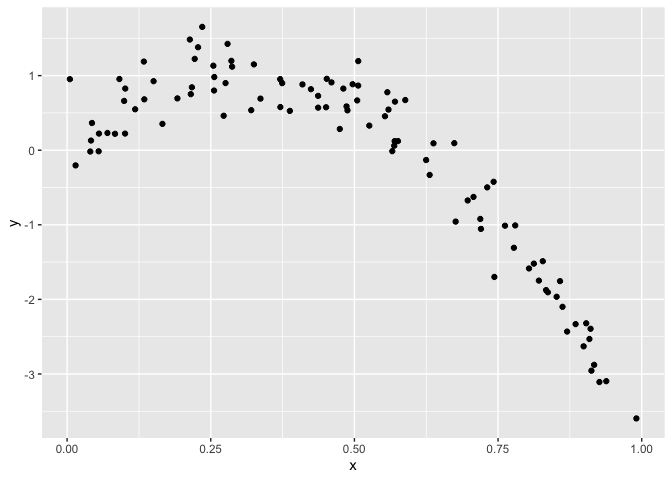
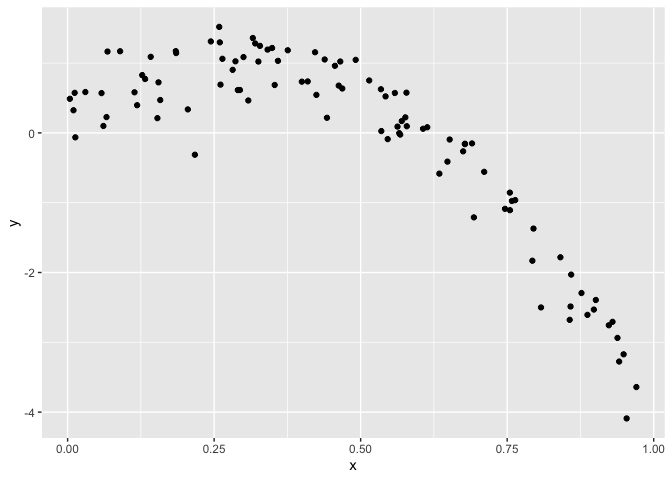
Made some plots

diff --git a/Cross-Validation.md b/Cross-Validation.md
@@ -24,7 +24,7 @@ out-of-sample fit - Exact ratio depends on data size, but preferably
 80/20
 
 ``` r
-# Create a bunch of random nonlinear numbers
+# Create a dataframe with 100 random nonlinear numbers (x-variable) and a y-variable that depends on x-variable.
 nonlin_df = 
   tibble(
     id = 1:100,
@@ -38,3 +38,55 @@ nonlin_df %>%
 ```
 
 ![](Cross-Validation_files/figure-gfm/unnamed-chunk-1-1.png)<!-- -->
+
+``` r
+train_df = sample_n(nonlin_df, 80)
+test_df = anti_join(nonlin_df, train_df, by = "id")
+```
+
+``` r
+train_df %>% 
+  ggplot(aes(x = x, y = y)) + 
+  geom_point() +
+  geom_point(data = test_df, color = "red")
+```
+
+![](Cross-Validation_files/figure-gfm/unnamed-chunk-2-1.png)<!-- -->
+
+Let’s try to fit three models.
+
+``` r
+linear_mod = lm(y ~ x, data = train_df)
+smooth_mod = gam(y ~ s(x), data = train_df)
+wiggly_mod = gam(y ~ s(x, k = 30), sp = 10e-6, data = train_df)
+```
+
+``` r
+train_df %>% 
+  add_predictions(linear_mod) %>% 
+  ggplot(aes(x = x, y = y)) +
+  geom_point() +
+  geom_line(aes(y = pred), color = "red")
+```
+
+![](Cross-Validation_files/figure-gfm/unnamed-chunk-4-1.png)<!-- -->
+
+``` r
+train_df %>% 
+  add_predictions(wiggly_mod) %>% 
+  ggplot(aes(x = x, y = y)) +
+  geom_point() +
+  geom_line(aes(y = pred), color = "red")
+```
+
+![](Cross-Validation_files/figure-gfm/unnamed-chunk-4-2.png)<!-- -->
+
+``` r
+train_df %>% 
+  add_predictions(smooth_mod) %>% 
+  ggplot(aes(x = x, y = y)) +
+  geom_point() +
+  geom_line(aes(y = pred), color = "red")
+```
+
+![](Cross-Validation_files/figure-gfm/unnamed-chunk-4-3.png)<!-- -->
